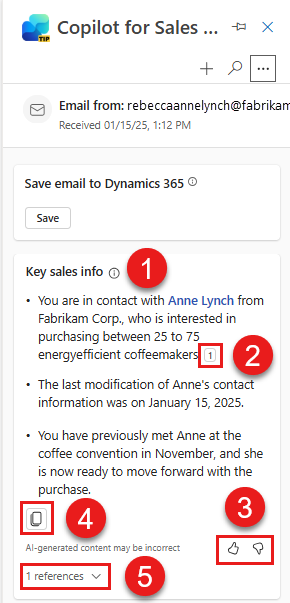
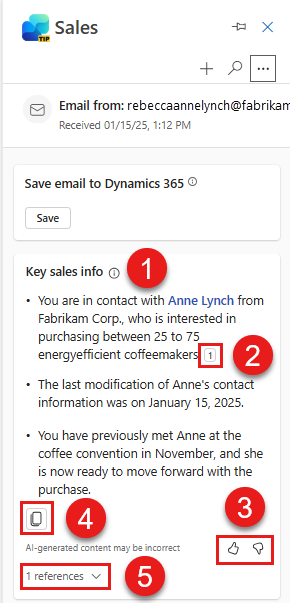
update as per feedback for KSI and KEI

Changed region(s): [[0.4345, 0.0299, 0.6828, 0.0597], [0.1862, 0.0299, 0.4034, 0.0597], [0.7138, 0.0299, 0.7448, 0.0597]]

diff --git a/articles/faqs-key-sales-info.md b/articles/faqs-key-sales-info.md
@@ -1,0 +1,59 @@
+---
+title: FAQ for key sales info feature in Outlook
+description: This FAQ provides information about the AI technology used in the key sales info feature in Sales agent, along with key considerations and details about how AI is used, how it was tested and evaluated, and any specific limitations.
+ms.date: 04/30/2025
+ms.custom: 
+  - responsible-ai-faqs
+ms.topic: faq
+ms.service: microsoft-sales-copilot
+author: sbmjais
+ms.author: shjais
+ms.reviewer: shjais
+---
+
+# FAQ for key sales info feature in Outlook
+
+These frequently asked questions (FAQ) describe the AI impact of Sales agent's key sales info feature in Outlook.
+
+## What is the key sales info feature?
+
+The key sales info feature shows shows relevant CRM data based on the context of an email in the **Key sales info** card in the Sales agent app in Microsoft Outlook. Users must have the access to Microsoft 365 Copilot to see this card. The data is retrieved from the connected CRM and emails. User must open the **Sales** side pane in Outlook to see the **Key sales info** card. Based on the email that the user has selected, the app finds relevant CRM key information related to email like contact, account, and opportunity.
+
+
+## What the feature can do?
+
+Create CRM highlights based on the email and the CRM relevant data such as contact, account, and opportunity.
+
+## What is the feature's intended use?
+
+The intended use of this feature is to show sales relevant information from the CRM such as contact, account and opportunity highlights to the user. 
+
+## How was the key sales info feature evaluated? What metrics are used to measure performance? 
+
+In the context of our Sales agent product, the evaluation process involves a comprehensive approach to red teaming, performance metrics, and targeted mitigations. Red teaming is employed to rigorously assess the system's resilience and identify potential vulnerabilities in the handling of key sales information. Robust performance metrics are implemented to quantitatively measure the effectiveness and efficiency of the Sales agent, ensuring it meets and exceeds the desired benchmarks. Mitigations are specifically tailored to address identified weaknesses, providing a proactive and strategic approach to enhance the overall security and functionality of the product in handling critical sales data. This meticulous evaluation framework aligns with our commitment to delivering a secure and high-performance solution for our clients.
+
+## What are the limitations of this feature? How can users minimize the impact of system’s limitations when using the system? 
+
+System may not find relevant CRM information to show, in that case, it will not show any data in the **Key sales info** card.
+
+## What operational factors and settings allow for effective and responsible use of the system?
+
+- **Data privacy and security**: Implement robust data privacy measures to protect customer information and ensure compliance with relevant regulations. Use secure communication channels and encryption methods to safeguard sensitive data.
+
+- **User training and guidelines**: Provide comprehensive training to users on the system's features, capabilities, and limitations. Establish clear guidelines and best practices for responsible and ethical use, emphasizing the importance of accurate representation, respectful communication, and adherence to legal and ethical standards.
+
+- **User permissions and access control**: Implement role-based access control to limit system functionalities and data access based on user roles and responsibilities. Ensure that users have appropriate permissions aligned with their job responsibilities and authorized access to customer data.
+
+- **Monitoring and auditing**: Regularly monitor system usage, interactions, and outcomes to identify any potential issues or concerns. Conduct periodic audits to assess adherence to guidelines, data protection measures, and ethical practices.
+
+- **Feedback and continuous improvement**: Encourage users to provide feedback on system performance, accuracy, and user experience. Actively seek user input to understand their needs and identify areas for improvement. Regularly update the system based on feedback and advancements in technology.
+
+- **Transparency and explainability**: Foster transparency by clearly communicating to users how the system works, the underlying technologies used, and any limitations or potential biases. Ensure that users have a basic understanding of the system's capabilities and are informed about its AI-powered nature.
+
+- **Accountability and error correction**: Establish mechanisms for addressing errors or inaccuracies that may occur in system-generated content. Encourage users to review and correct any inaccuracies, taking responsibility for the final output, and ensuring it aligns with their knowledge and expertise.
+
+- **Set up the system**: Copilot AI features must be enabled by an administrator and fields for the opportunity record must be selected. Sales agent must be connected to a CRM. 
+
+### Related information
+
+- [Summarize an email thread using sales information with Copilot in Outlook](email-summary-premium.md)

diff --git a/articles/key-sales-info.md b/articles/key-sales-info.md
@@ -1,0 +1,79 @@
+---
+title: View key sales information
+description: Learn how to view key sales information in Sales agent as you read and compose emails in Outlook.
+ms.date: 04/24/2026
+ms.topic: how-to
+ms.service: microsoft-sales-copilot
+author: sbmjais
+ms.author: shjais
+---
+
+# View key sales information
+
+As you read and compose emails in Outlook, you can use Sales agent to view key sales information about the contacts, accounts, opportunities, and leads that are related to the email. Key sales information is based either on the opportunity or the lead that is connected to the email. If the email is neither connected to an opportunity nor a lead, Sales agent suggests the most relevant opportunity based on the contacts and accounts in the email. You can choose a different opportunity if the suggested opportunity is not the most relevant one. If the email is connected to lead, and the lead was not qualified, the key sales information is based on the lead. If an opportunity is connected to the lead, the key sales information is based on the opportunity instead of the lead.
+
+## Prerequisites
+
+You must use the [new Outlook for Windows](https://support.microsoft.com/office/getting-started-with-the-new-outlook-for-windows-656bb8d9-5a60-49b2-a98b-ba7822bc7627) or Outlook on the web to view the key sales information. If you use the classic Outlook for Windows or the native Outlook app for Mac desktop, the [**Key email info**](view-save-email-summary-crm.md) card is displayed instead of the Key sales info card. 
+
+## Anatomy of key sales information
+
+:::image type="content" source="media/email-summary-reading.png" alt-text="Screenshot of an email summary card in the Sales pane in Outlook when reading an email, with numbered callouts.":::
+
+Legend:
+
+1. Card title
+1. Citation number
+1. Share feedback on the email summary
+1. Copy the summary to the clipboard
+1. View the summary source
+
+## View key sales information
+
+1. In Outlook, open or reply to an email.
+1. Open the **Sales** pane.
+
+    The **Key sales info** card shows the key sales information.
+
+## View the data source
+
+Information that is identified from CRM is shown as a data source in the key sales information, for quick reference. This information includes contact and account records.
+
+CRM data is shown in blue. Select the content to view information about the CRM data.
+
+You can also open a record in CRM to view its complete details. Just select the open record button :::image type="icon" source="media/open-record.png" border="false"::: on the CRM record card.
+
+Citation numbers are shown for the key sales information. Select a citation number to view more information.
+
+## View references
+
+The **References** section of the **Key sales info** card shows the opportunities, contacts, and accounts that are related to the email. Expand the appropriate cards to view the details of the opportunities, contacts, and accounts. To view a record in CRM, select the open record button :::image type="icon" source="media/open-record.png" border="false"::: on the record card. If the suggested opportunity isn't the most relevant one, you can [select a different opportunity](#change-the-opportunity).
+
+## Change the opportunity
+
+If the suggested opportunity isn't the most relevant one, you can select a different opportunity.
+
+1. On the **Key sales info** card, expand the **References** section.
+1. On the opportunity card, select the change button :::image type="icon" source="media/change-icon.png" border="false":::.
+1. Select the opportunity that you want to connect to the email.
+1. Select **Change**.
+
+    Information is updated based on the new opportunity and the contacts and accounts that are associated with it.
+
+## Share feedback
+
+If you have any feedback about the content, you can share it by selecting the appropriate button at the bottom of the key sales information. Your feedback is valuable, and we use it to improve the functionality.
+
+> [!NOTE]
+> Ensure that you don't enter any personal information while you're sharing feedback.
+
+1. At the bottom of the key sales information, select either the thumbs-up button :::image type="icon" source="media/thumbs-up.png" border="false"::: or the thumbs-down button :::image type="icon" source="media/thumbs-down.png" border="false":::.
+
+    After you select a button, you receive a **Tell us more** link.
+
+1. Select the link to open the feedback form.
+1. Enter your responses in the feedback form, and then select **Send**.
+
+### Related information
+
+[Enrich key sales info with insights from your application](extend-key-sales-info.md)

diff --git a/articles/email-summary-premium.md b/articles/email-summary-premium.md
@@ -1,7 +1,7 @@
 ---
 title: Boost sales efficiency with CRM-enriched email summaries in Outlook
 description: Learn how to use Sales agent in Outlook to enrich email summaries with sales information from your CRM.
-ms.date: 04/15/2026
+ms.date: 04/24/2026
 ms.topic: how-to
 ms.service: microsoft-sales-copilot
 author: sbmjais
@@ -33,25 +33,8 @@ Email summaries are available when:
 - You must use the [new Outlook for Windows](https://support.microsoft.com/office/getting-started-with-the-new-outlook-for-windows-656bb8d9-5a60-49b2-a98b-ba7822bc7627) or Outlook on the web to use the combined experience.
 
 > [!NOTE]
-> If you use Classic Outlook for Windows, you'll see the email summary in the **Sales** pane in Outlook in the **Key email info** card.
-
-## Anatomy of an email summary
-
-:::image type="content" source="./media/email-summary-premium-license.png" alt-text="Screenshot of an email summary in Outlook on the web, with numbered callouts.":::
-
-Legend:
-
-1. Summary generated by Microsoft 365 Copilot, with sales information from your CRM added
-1. Open the Sales pane
-1. Open the Sales pane
-1. Card title
-1. Citation numbers
-1. Copy the summary to the clipboard
-1. View the summary source
-1. Share feedback on the email summary
-
-> [!NOTE]
-> The capabilities to save the email summary to your CRM and share it to Teams are not available when viewing the summary in the **Summary by Copilot** box.
+> - If you use Classic Outlook for Windows, you'll see the email summary in the **Sales** pane in Outlook in the **Key email info** card.
+> - The capabilities to save the email summary to your CRM and share it to Teams are not available when viewing the summary in the **Summary by Copilot** box within the new Outlook for Windows or Outlook on the web. They are only available in the **Key email info** card in the **Sales** pane in Classic Outlook for Windows. 
 
 ## View an email summary
 
@@ -72,6 +55,9 @@ Legend:
     :::image type="content" source="./media/email-summary-premium-license-copilot-summary-sales-insights.png" alt-text="Screenshot of an email summary in Outlook on the web with account and opportunity details added.":::
 
 1. To open the **Sales** pane, select **Go to Sales**.
+
+> [!NOTE]
+> - If either [meeting insights](access-settings.md#meeting-insights) or [email insights](access-settings.md#email-insights) is enabled in your organization, the [**Opportunity insights**](view-opportunity-insights.md) and [**Customer communication**](view-customer-communication.md) cards are displayed in the **Sales** pane. However, if both meeting insights and email insights are disabled, the [**Key Sales info**](key-sales-info.md) card is displayed in the **Sales** pane.
 
 ## Related information
 

diff --git a/articles/deprecations-sales-app.md b/articles/deprecations-sales-app.md
@@ -15,10 +15,6 @@ The features that have been deprecated in the Sales agent are listed in this art
 > [!Important]
 > "Deprecated" means we intend to remove the feature or capability in a major future release. The feature or capability will continue to work and is fully supported until it is officially removed. This deprecation notification might span a few years. After removal, the feature or capability will no longer work. We are notifying you now so that you have sufficient time to plan and update your code before the feature or capability is removed.
 
-## Key sales info 
-
-Effective September 2025, the **Key sales info** card is deprecated and replaced by the [**Opportunity insights**](view-opportunity-insights.md) card.
-
 ## Recent communications
 
 Effective September 2025, the **Recent communications** card is deprecated and replaced by the [**Customer Communication**](view-customer-communication.md) card.

diff --git a/articles/view-save-email-summary-crm.md b/articles/view-save-email-summary-crm.md
@@ -1,7 +1,7 @@
 ---
 title: View and save email summaries to your CRM
 description: Learn how to use the Sales agent to save summaries of sales-related emails to your Dynamics 365 or Salesforce CRM.
-ms.date: 03/09/2026
+ms.date: 04/24/2026
 ms.topic: how-to
 ms.service: microsoft-sales-copilot
 author: sbmjais
